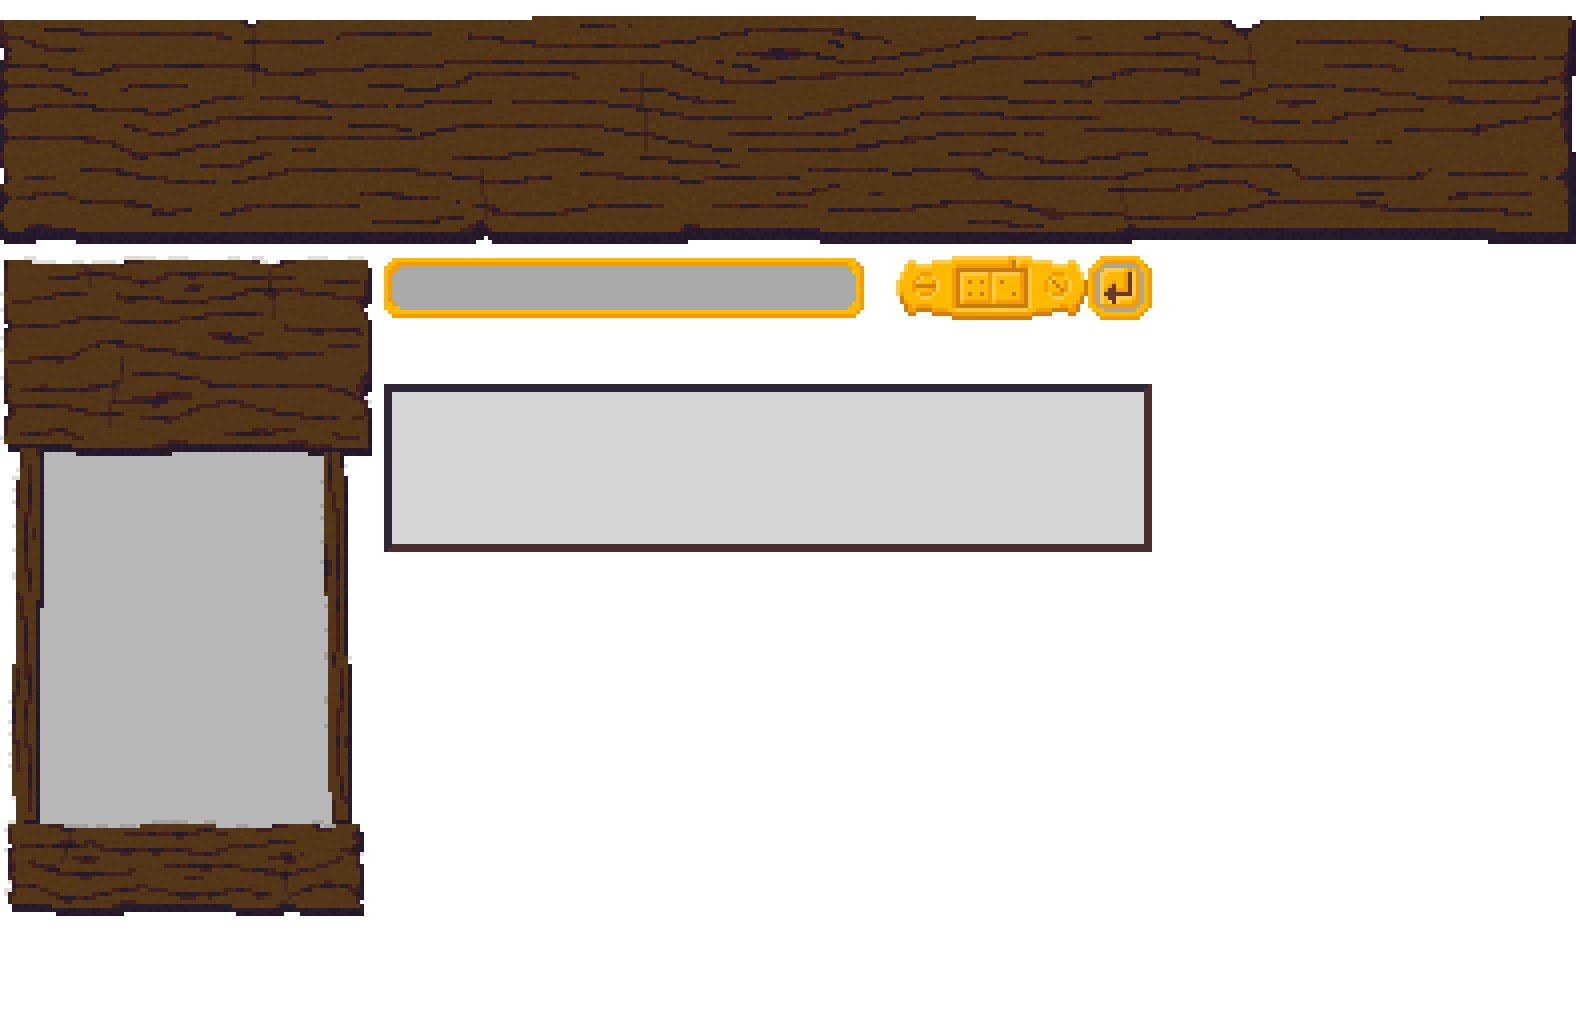
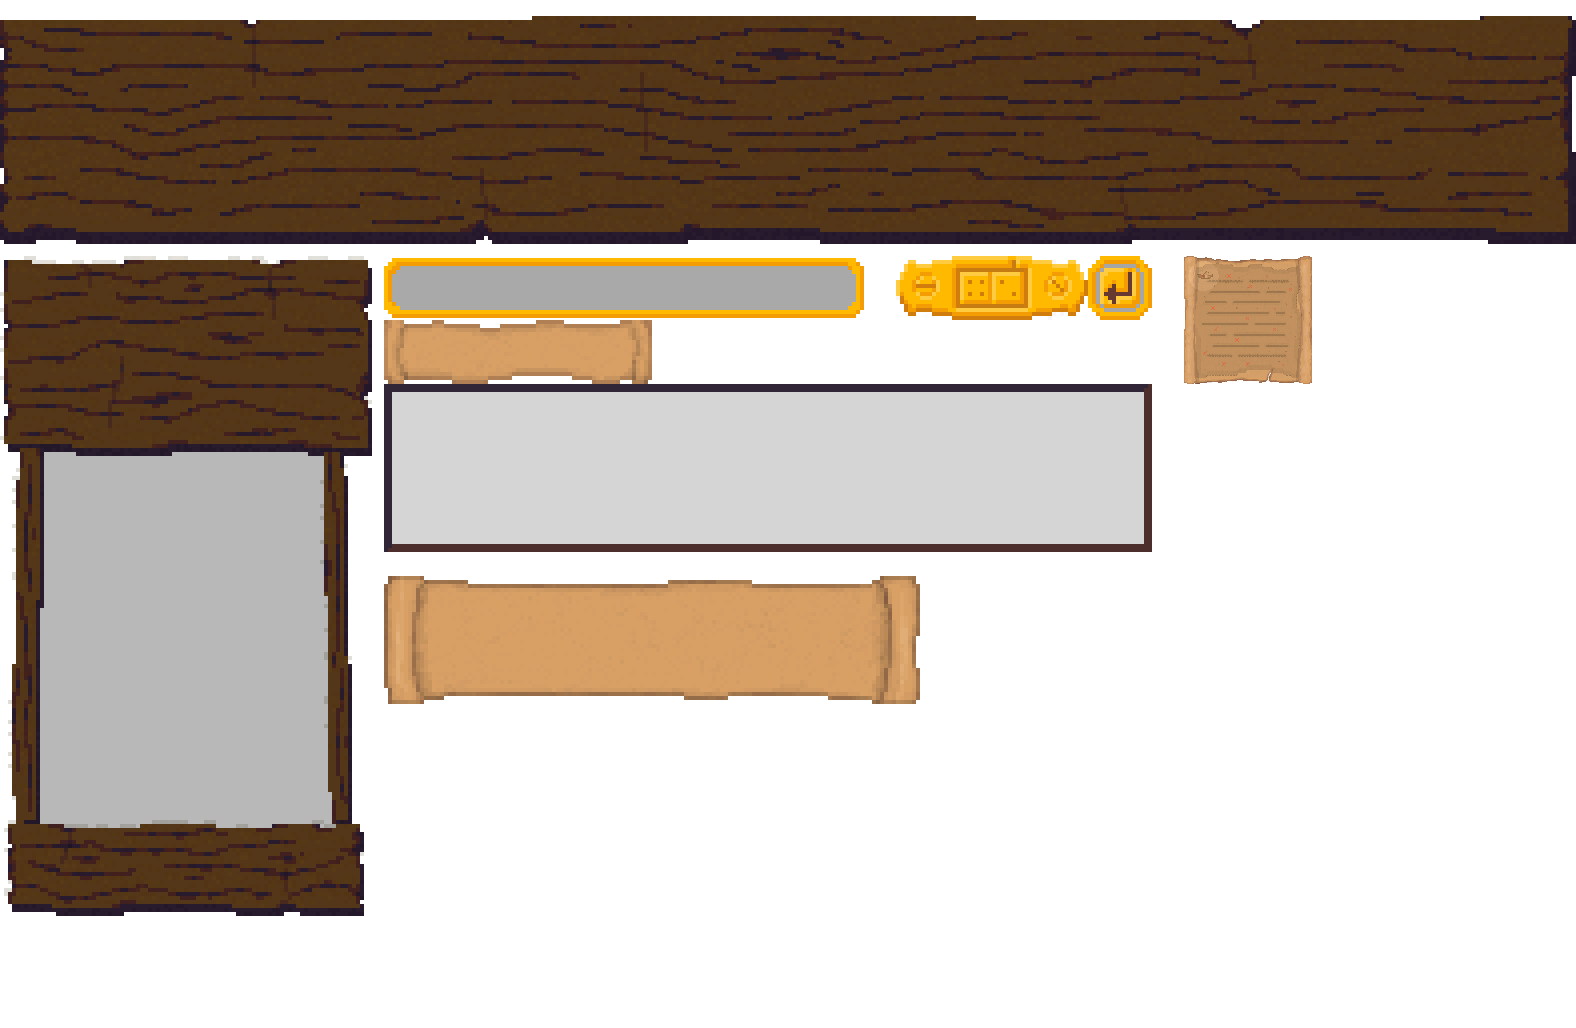
update menu graphics

Changed region(s): [[0.2176, 0.5603, 0.5907, 0.6848], [0.2176, 0.3113, 0.4353, 0.3735], [0.7462, 0.249, 0.8395, 0.3735]]

diff --git a/did/src/MenuState.cpp b/did/src/MenuState.cpp
@@ -434,16 +434,20 @@ void MenuState::loadAssets()
     m_sprites[Menu::SpriteID::RandomButton] = spriteSheet.getSprite("random_button");
     m_sprites[Menu::SpriteID::ChatBox] = spriteSheet.getSprite("chatbox");
     m_sprites[Menu::SpriteID::ChatButton] = spriteSheet.getSprite("chat_button");
+    m_sprites[Menu::SpriteID::TreasureMap] = spriteSheet.getSprite("treasure_map");
+    m_sprites[Menu::SpriteID::ButtonBackground] = spriteSheet.getSprite("button_background");
 
     m_callbackIDs[Menu::CallbackID::TextSelected] = m_uiScene.getSystem<xy::UISystem>().addMouseMoveCallback(
         [](xy::Entity entity, sf::Vector2f)
     {
-        entity.getComponent<xy::Text>().setFillColour(Global::OuterTextColour);
+        entity.getComponent<xy::Text>().setOutlineThickness(2.f);
+        //entity.getComponent<xy::Text>().setFillColour(Global::OuterTextColour);
     });
     m_callbackIDs[Menu::CallbackID::TextUnselected] = m_uiScene.getSystem<xy::UISystem>().addMouseMoveCallback(
         [](xy::Entity entity, sf::Vector2f)
     {
-        entity.getComponent<xy::Text>().setFillColour(Global::InnerTextColour);
+        entity.getComponent<xy::Text>().setOutlineThickness(1.f);
+        //entity.getComponent<xy::Text>().setFillColour(Global::InnerTextColour);
     });
 
     m_callbackIDs[Menu::CallbackID::CheckboxClicked] = m_uiScene.getSystem<xy::UISystem>().addMouseButtonCallback(
@@ -616,7 +620,7 @@ void MenuState::createScene()
     entity.getComponent<xy::Text>().setFillColour(Global::InnerTextColour);
     entity.getComponent<xy::Text>().setOutlineColour(Global::OuterTextColour);
     entity.getComponent<xy::Text>().setOutlineThickness(1.f);
-    entity.addComponent<xy::Drawable>();
+    entity.addComponent<xy::Drawable>().setDepth(Menu::SpriteDepth::Near);
     entity.addComponent<xy::UIHitBox>().callbacks[xy::UIHitBox::CallbackID::MouseEnter] = mouseOver;
     entity.getComponent<xy::UIHitBox>().callbacks[xy::UIHitBox::CallbackID::MouseExit] = mouseOut;
     entity.getComponent<xy::UIHitBox>().area = Menu::ButtonArea;
@@ -666,7 +670,7 @@ void MenuState::createScene()
     entity.getComponent<xy::Text>().setFillColour(Global::InnerTextColour);
     entity.getComponent<xy::Text>().setOutlineColour(Global::OuterTextColour);
     entity.getComponent<xy::Text>().setOutlineThickness(1.f);
-    entity.addComponent<xy::Drawable>();
+    entity.addComponent<xy::Drawable>().setDepth(Menu::SpriteDepth::Near);
     entity.addComponent<xy::UIHitBox>().callbacks[xy::UIHitBox::CallbackID::MouseEnter] = mouseOver;
     entity.getComponent<xy::UIHitBox>().callbacks[xy::UIHitBox::CallbackID::MouseExit] = mouseOut;
     entity.getComponent<xy::UIHitBox>().area = Menu::ButtonArea;
@@ -722,7 +726,7 @@ void MenuState::createScene()
     entity.getComponent<xy::Text>().setFillColour(Global::InnerTextColour);
     entity.getComponent<xy::Text>().setOutlineColour(Global::OuterTextColour);
     entity.getComponent<xy::Text>().setOutlineThickness(1.f);
-    entity.addComponent<xy::Drawable>();
+    entity.addComponent<xy::Drawable>().setDepth(Menu::SpriteDepth::Near);
     entity.addComponent<xy::UIHitBox>().callbacks[xy::UIHitBox::CallbackID::MouseEnter] = mouseOver;
     entity.getComponent<xy::UIHitBox>().callbacks[xy::UIHitBox::CallbackID::MouseExit] = mouseOut;
     entity.getComponent<xy::UIHitBox>().area = Menu::ButtonArea;
@@ -757,7 +761,7 @@ void MenuState::createScene()
     entity.getComponent<xy::Text>().setFillColour(Global::InnerTextColour);
     entity.getComponent<xy::Text>().setOutlineColour(Global::OuterTextColour);
     entity.getComponent<xy::Text>().setOutlineThickness(1.f);
-    entity.addComponent<xy::Drawable>();
+    entity.addComponent<xy::Drawable>().setDepth(Menu::SpriteDepth::Near);
     entity.addComponent<xy::UIHitBox>().callbacks[xy::UIHitBox::CallbackID::MouseEnter] = mouseOver;
     entity.getComponent<xy::UIHitBox>().callbacks[xy::UIHitBox::CallbackID::MouseExit] = mouseOut;
     entity.getComponent<xy::UIHitBox>().area = Menu::ButtonArea;
@@ -772,12 +776,21 @@ void MenuState::createScene()
     });
     parentEntity.getComponent<xy::Transform>().addChild(entity.getComponent<xy::Transform>());
 
+    //map background
+    entity = m_uiScene.createEntity();
+    entity.addComponent<xy::Transform>().setPosition(MenuStart);
+    entity.getComponent<xy::Transform>().move(-60.f, -40.f);
+    entity.getComponent<xy::Transform>().setScale(3.5f, 3.5f);
+    entity.addComponent<xy::Drawable>().setDepth(Menu::SpriteDepth::Far);
+    entity.addComponent<xy::Sprite>() = m_sprites[Menu::SpriteID::TreasureMap];
+    parentEntity.getComponent<xy::Transform>().addChild(entity.getComponent<xy::Transform>());
+
     //version
     entity = m_uiScene.createEntity();
     entity.addComponent<xy::Transform>().setPosition(20.f, 1020.f);
     entity.addComponent<xy::Text>(m_fontResource.get(Global::FineFont)).setString(REVISION_STRING);
     entity.getComponent<xy::Text>().setCharacterSize(Global::SmallTextSize);
-    entity.addComponent<xy::Drawable>();
+    entity.addComponent<xy::Drawable>().setDepth(Menu::SpriteDepth::Near);
     parentEntity.getComponent<xy::Transform>().addChild(entity.getComponent<xy::Transform>());
 
     buildLobby(font);

diff --git a/did/src/MenuUIOptions.cpp b/did/src/MenuUIOptions.cpp
@@ -96,19 +96,32 @@ void MenuState::buildOptions(sf::Font& font)
     entity.getComponent<xy::Transform>().setOrigin(bounds.width / 2.f, bounds.height / 2.f);
     parentEntity.getComponent<xy::Transform>().addChild(entity.getComponent<xy::Transform>());
 
+    //back background
+    entity = m_uiScene.createEntity();
+    entity.addComponent<xy::Transform>().setPosition(Menu::BackButtonPosition);
+    entity.addComponent<xy::Drawable>().setDepth(Menu::SpriteDepth::Far);
+    entity.addComponent<xy::Sprite>() = m_sprites[Menu::SpriteID::ButtonBackground];
+    parentEntity.getComponent<xy::Transform>().addChild(entity.getComponent<xy::Transform>());
+
+    bounds = entity.getComponent<xy::Sprite>().getTextureBounds();
+    auto textPos = Menu::BackButtonPosition;
+    textPos.x += bounds.width / 2.f;
+    textPos.y += 8.f;
+    bounds.left -= bounds.width / 2.f;
 
     //back button
     entity = m_uiScene.createEntity();
-    entity.addComponent<xy::Transform>().setPosition(Menu::BackButtonPosition);
+    entity.addComponent<xy::Transform>().setPosition(textPos);
     entity.addComponent<xy::Text>(font).setString("Back");
     entity.getComponent<xy::Text>().setCharacterSize(Global::MediumTextSize);
     entity.getComponent<xy::Text>().setFillColour(Global::InnerTextColour);
     entity.getComponent<xy::Text>().setOutlineColour(Global::OuterTextColour);
     entity.getComponent<xy::Text>().setOutlineThickness(1.f);
-    entity.addComponent<xy::Drawable>();
+    entity.getComponent<xy::Text>().setAlignment(xy::Text::Alignment::Centre);
+    entity.addComponent<xy::Drawable>().setDepth(Menu::SpriteDepth::Near);
     entity.addComponent<xy::UIHitBox>().callbacks[xy::UIHitBox::CallbackID::MouseEnter] = mouseOver;
     entity.getComponent<xy::UIHitBox>().callbacks[xy::UIHitBox::CallbackID::MouseExit] = mouseOut;
-    entity.getComponent<xy::UIHitBox>().area = Menu::ButtonArea;
+    entity.getComponent<xy::UIHitBox>().area = bounds;
     entity.getComponent<xy::UIHitBox>().callbacks[xy::UIHitBox::CallbackID::MouseUp] =
         m_uiScene.getSystem<xy::UISystem>().addMouseButtonCallback([&, parentEntity](xy::Entity, sf::Uint64 flags) mutable
     {
@@ -131,20 +144,33 @@ void MenuState::buildOptions(sf::Font& font)
     });
     parentEntity.getComponent<xy::Transform>().addChild(entity.getComponent<xy::Transform>());
 
-    //advanced button
+    //advanced background
     entity = m_uiScene.createEntity();
     entity.addComponent<xy::Transform>().setPosition(Menu::StartButtonPosition);
+    entity.addComponent<xy::Drawable>().setDepth(Menu::SpriteDepth::Far);
+    entity.addComponent<xy::Sprite>() = m_sprites[Menu::SpriteID::ButtonBackground];
+    parentEntity.getComponent<xy::Transform>().addChild(entity.getComponent<xy::Transform>());
+
+    bounds = entity.getComponent<xy::Sprite>().getTextureBounds();
+    textPos = Menu::StartButtonPosition;
+    textPos.x += bounds.width / 2.f;
+    textPos.y += 8.f;
+    bounds.left -= bounds.width / 2.f;
+
+    //advanced button
+    entity = m_uiScene.createEntity();
+    entity.addComponent<xy::Transform>().setPosition(textPos);
     entity.addComponent<xy::Text>(font).setString("Advanced");
     entity.getComponent<xy::Text>().setCharacterSize(Global::MediumTextSize);
     entity.getComponent<xy::Text>().setAlignment(xy::Text::Alignment::Right);
     entity.getComponent<xy::Text>().setFillColour(Global::InnerTextColour);
     entity.getComponent<xy::Text>().setOutlineColour(Global::OuterTextColour);
     entity.getComponent<xy::Text>().setOutlineThickness(1.f);
-    entity.addComponent<xy::Drawable>();
+    entity.getComponent<xy::Text>().setAlignment(xy::Text::Alignment::Centre);
+    entity.addComponent<xy::Drawable>().setDepth(Menu::SpriteDepth::Near);
     entity.addComponent<xy::UIHitBox>().callbacks[xy::UIHitBox::CallbackID::MouseEnter] = mouseOver;
     entity.getComponent<xy::UIHitBox>().callbacks[xy::UIHitBox::CallbackID::MouseExit] = mouseOut;
-    entity.getComponent<xy::UIHitBox>().area = Menu::ButtonArea;
-    entity.getComponent<xy::UIHitBox>().area.left = -entity.getComponent<xy::UIHitBox>().area.width;
+    entity.getComponent<xy::UIHitBox>().area = bounds;
     entity.getComponent<xy::UIHitBox>().callbacks[xy::UIHitBox::CallbackID::MouseUp] =
         m_uiScene.getSystem<xy::UISystem>().addMouseButtonCallback([&](xy::Entity, sf::Uint64 flags)
     {

diff --git a/did/src/MenuUI.hpp b/did/src/MenuUI.hpp
@@ -106,6 +106,8 @@ namespace Menu
             TextInput,
             ChatBox,
             ChatButton,
+            TreasureMap,
+            ButtonBackground,
             Count
         };
     }
@@ -136,9 +138,9 @@ namespace Menu
 
     static const sf::Vector2f OffscreenPosition(0.f, -1080.f);
     static const sf::FloatRect ButtonArea({ 0.f, 0.f, 300.f, 70.f });
-    static const sf::Vector2f StartButtonPosition(1890.f, 960.f);
+    static const sf::Vector2f StartButtonPosition(1364.f, 940.f);
     static const sf::Vector2f StartButtonPositionHidden(2890.f, 960.f);
-    static const sf::Vector2f BackButtonPosition(30.f, 960.f);
+    static const sf::Vector2f BackButtonPosition(20.f, 940.f);
     static const sf::Vector2f SeedPosition(210.f, 768.f);
     static const sf::Vector2f ChatInputPosition(210.f, 860.f);
     static const sf::Vector2f ChatBoxPosition(940.f, 768.f);

diff --git a/did/src/GlobalConsts.hpp b/did/src/GlobalConsts.hpp
@@ -64,7 +64,7 @@ namespace Global
     static const std::uint32_t LobbyTextSize = 50;
     
     static const sf::Color InnerTextColour(236, 178, 19);
-    static const sf::Color OuterTextColour(236, 126, 19);
+    static const sf::Color OuterTextColour(65, 33, 31);
 
     //collision properties
     static const sf::FloatRect PlayerBounds(-7.f, -7.f, 14.f, 14.f); //the sprite scale ends up doubling this

diff --git a/did/src/GameUI.cpp b/did/src/GameUI.cpp
@@ -772,7 +772,7 @@ void GameState::showServerMessage(std::int32_t messageID)
     if (messageID == Server::Message::OneTreasureRemaining)
     {
         //BIG
-        makeBigText();
+        makeBigText(-20.f);
 
         //tell the treasure icon to flash
         xy::Command cmd;
